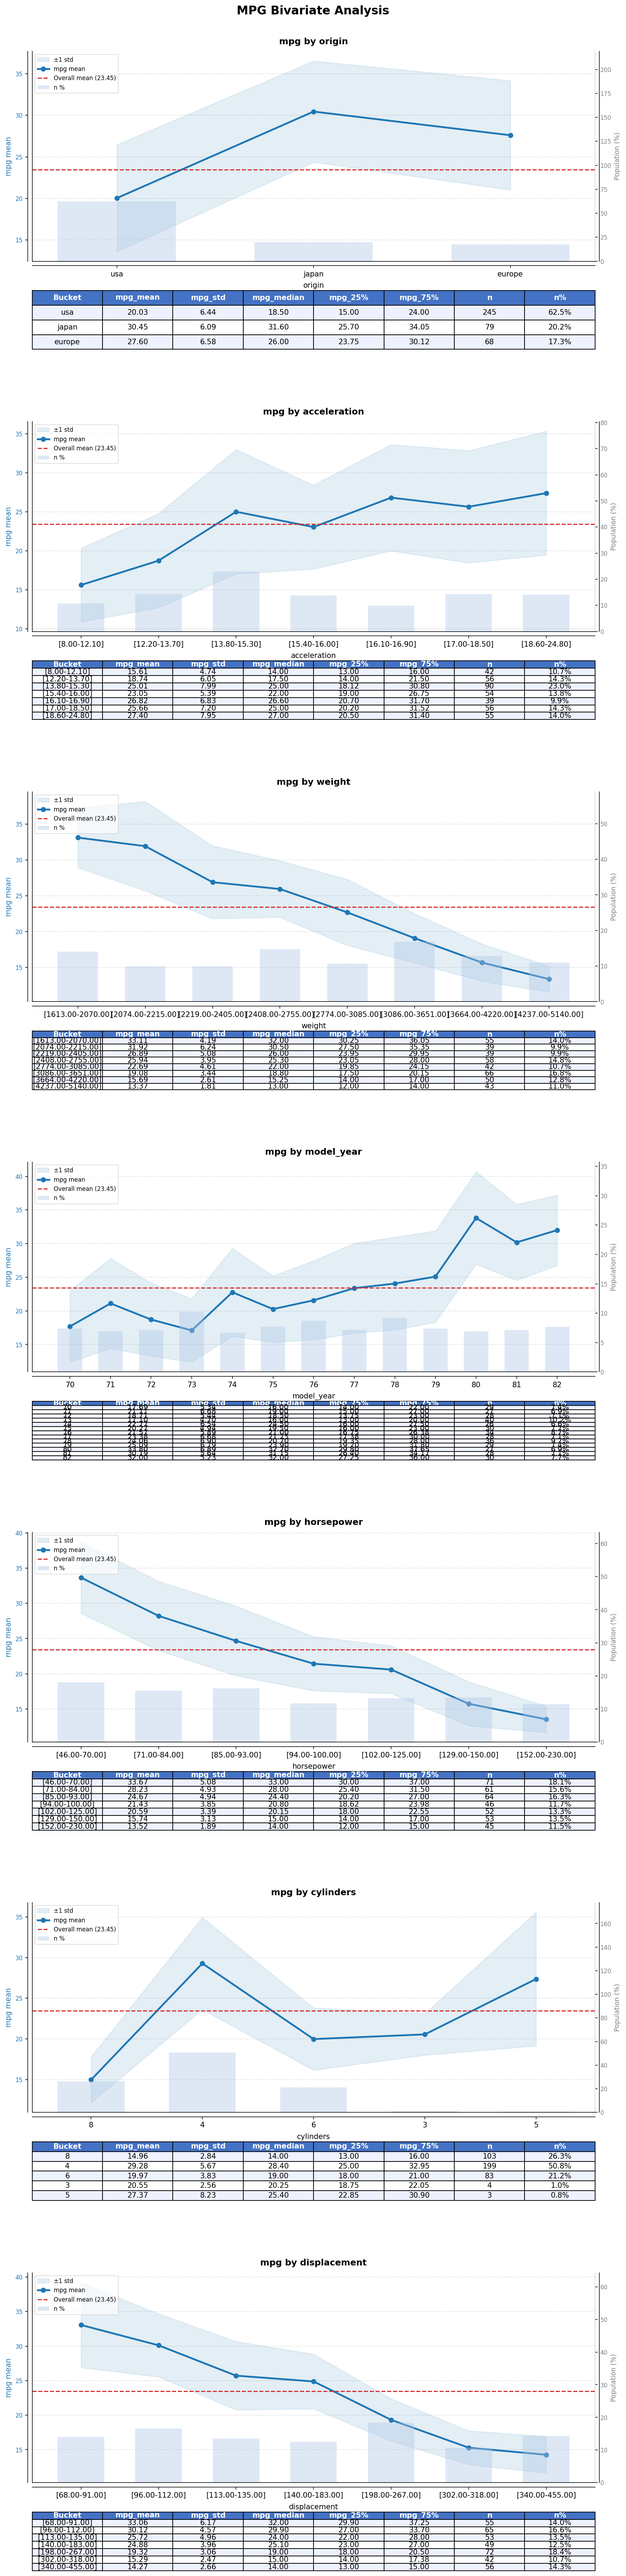
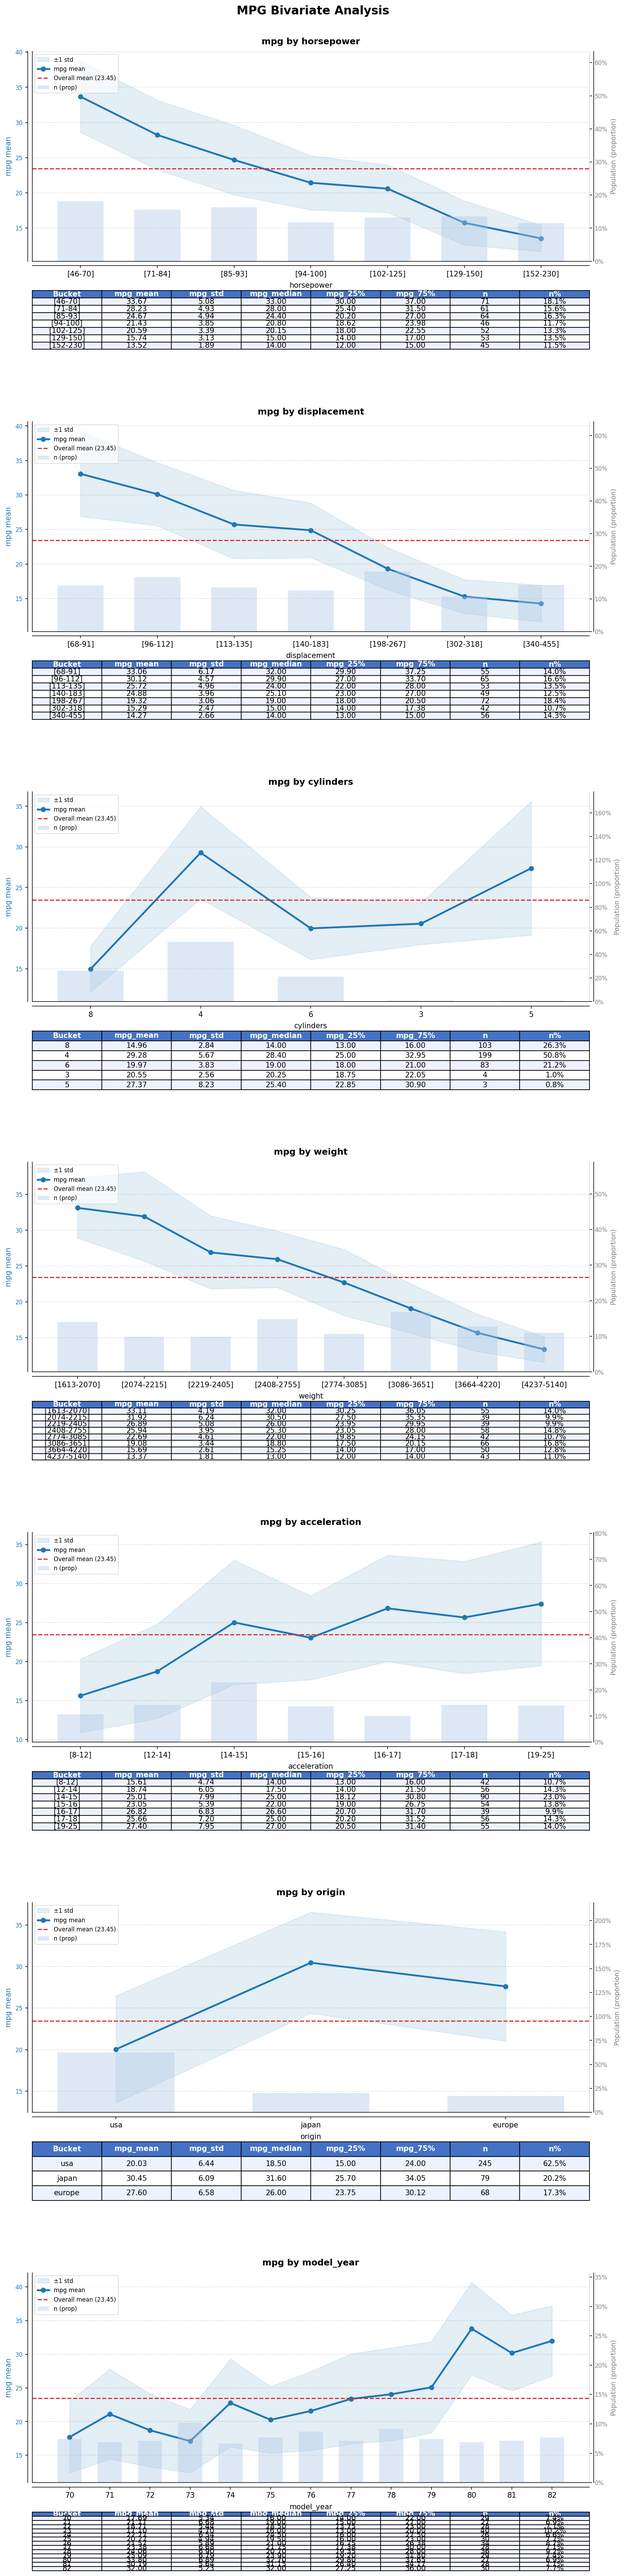
add max_discr slider + varname dropdown to interactive panel

diff --git a/src/bivariate_functions.py b/src/bivariate_functions.py
@@ -316,6 +316,286 @@ def plot_data_by_varname(ax, df, var_name, Y):
     ax.add_table(table)
 
 
+def plot_interactive_panel(df, Y):
+    """Variable-selector panel with max_discr filter.
+
+    Two controls:
+    - ``min max_discr`` slider: hides variables whose max_discr is below the
+      chosen threshold, so you can focus on the most discriminating ones.
+    - ``Variable`` dropdown: lists surviving variables sorted by max_discr
+      (highest first); each option shows the variable name and its score.
+
+    Renders an enhanced Plotly chart for the selected variable.
+    Call from a Jupyter notebook cell.
+    """
+    import ipywidgets as widgets
+    from IPython.display import display, clear_output
+
+    # max_discr is the same for every row of a variable – grab one per var
+    var_discr = (
+        df.groupby('varname')['max_discr']
+        .first()
+        .sort_values(ascending=False)
+    )
+    discr_min = float(round(var_discr.min(), 4))
+    discr_max = float(round(var_discr.max(), 4))
+    step = float(round((discr_max - discr_min) / 100, 4)) if discr_max > discr_min else 0.001
+
+    def _var_options(min_discr):
+        """Return (label, varname) option pairs for vars >= min_discr."""
+        filtered = var_discr[var_discr >= min_discr]
+        if filtered.empty:
+            filtered = var_discr.iloc[:1]
+        return [(f"{v}  (discr={s:.3f})", v) for v, s in filtered.items()]
+
+    # ── widgets ──────────────────────────────────────────────────────────
+    slider = widgets.FloatSlider(
+        value=discr_min,
+        min=discr_min,
+        max=discr_max,
+        step=step,
+        description='',
+        continuous_update=False,
+        readout=True,
+        readout_format='.3f',
+        layout=widgets.Layout(width='340px'),
+        style={'handle_color': '#2563EB'},
+    )
+    initial_options = _var_options(discr_min)
+    dropdown = widgets.Dropdown(
+        options=initial_options,
+        value=initial_options[0][1],
+        description='',
+        layout=widgets.Layout(width='320px'),
+    )
+
+    label_slider = widgets.HTML(
+        "<b style='font-size:12px;color:#555'>Min max_discr&nbsp;</b>",
+        layout=widgets.Layout(margin='6px 0 0 0'),
+    )
+    label_var = widgets.HTML(
+        "<b style='font-size:12px;color:#555'>Variable&nbsp;&nbsp;&nbsp;&nbsp;&nbsp;&nbsp;&nbsp;&nbsp;</b>",
+        layout=widgets.Layout(margin='6px 0 0 0'),
+    )
+    output = widgets.Output()
+
+    def render(var_name):
+        import plotly.io as pio
+        from IPython.display import HTML as _HTML
+        with output:
+            clear_output(wait=True)
+            fig = _plot_varname_enhanced(df, var_name, Y)
+            html = pio.to_html(fig, include_plotlyjs='cdn', full_html=False)
+            display(_HTML(html))
+
+    def on_slider_change(change):
+        if change['name'] == 'value':
+            new_options = _var_options(change['new'])
+            # Update dropdown without triggering redundant renders
+            dropdown.unobserve(on_dropdown_change, names='value')
+            dropdown.options = new_options
+            dropdown.value = new_options[0][1]
+            dropdown.observe(on_dropdown_change, names='value')
+            render(new_options[0][1])
+
+    def on_dropdown_change(change):
+        if change['name'] == 'value' and change['new']:
+            render(change['new'])
+
+    slider.observe(on_slider_change, names='value')
+    dropdown.observe(on_dropdown_change, names='value')
+
+    header = widgets.VBox(
+        [
+            widgets.HBox([label_slider, slider]),
+            widgets.HBox([label_var, dropdown]),
+        ],
+        layout=widgets.Layout(
+            padding='10px 16px',
+            border='1px solid #e0e0e0',
+            border_radius='8px',
+            background_color='#fafafa',
+            margin='0 0 10px 0',
+        ),
+    )
+    display(widgets.VBox([header, output]))
+    render(initial_options[0][1])
+
+
+def _plot_varname_enhanced(df, var_name, Y):
+    """Enhanced single-variable Plotly chart with:
+    - Mean line + ±1 std band
+    - IQR band (25–75 %)
+    - Median markers
+    - n proportion bars on secondary axis
+    - Polished summary table
+    """
+    filtered_df = df[df['varname'] == var_name].copy()
+    if filtered_df.empty:
+        return go.Figure()
+
+    filtered_df['x_string'] = filtered_df['x_string'].fillna('Missing').astype(str)
+    gen_y_mean = filtered_df[f'gen_{Y}_mean'].iloc[0]
+    x_labels   = filtered_df['x_string'].tolist()
+    y_mean     = filtered_df[f'{Y}_mean'].values
+    y_std      = filtered_df[f'{Y}_std'].values
+    y_med      = filtered_df[f'{Y}_median'].values
+    y_q25      = filtered_df[f'{Y}_25%'].values
+    y_q75      = filtered_df[f'{Y}_75%'].values
+    n_prop     = (filtered_df['n_percentage'] / 100).values
+
+    # ── palette ──────────────────────────────────────────────────────────
+    C_MEAN  = '#2563EB'   # blue
+    C_MED   = '#7C3AED'   # purple
+    C_BAND  = 'rgba(37,99,235,0.10)'
+    C_IQR   = 'rgba(124,58,237,0.10)'
+    C_REF   = '#DC2626'   # red
+    C_BAR   = 'rgba(148,163,184,0.45)'  # slate
+
+    fig = make_subplots(
+        rows=2, cols=1,
+        row_heights=[0.68, 0.32],
+        vertical_spacing=0.08,
+        specs=[[{"secondary_y": True}], [{"type": "table"}]],
+    )
+
+    # ── ±1 std band ───────────────────────────────────────────────────────
+    fig.add_trace(go.Scatter(
+        x=x_labels + x_labels[::-1],
+        y=list(y_mean + y_std) + list((y_mean - y_std)[::-1]),
+        fill='toself', fillcolor=C_BAND,
+        line=dict(color='rgba(0,0,0,0)'),
+        hoverinfo='skip', showlegend=True, name='±1 std',
+    ), row=1, col=1, secondary_y=False)
+
+    # ── IQR band (25–75 %) ────────────────────────────────────────────────
+    fig.add_trace(go.Scatter(
+        x=x_labels + x_labels[::-1],
+        y=list(y_q75) + list(y_q25[::-1]),
+        fill='toself', fillcolor=C_IQR,
+        line=dict(color='rgba(0,0,0,0)'),
+        hoverinfo='skip', showlegend=True, name='IQR (25–75%)',
+    ), row=1, col=1, secondary_y=False)
+
+    # ── mean line ─────────────────────────────────────────────────────────
+    fig.add_trace(go.Scatter(
+        x=x_labels, y=y_mean,
+        mode='lines+markers',
+        line=dict(color=C_MEAN, width=2.5),
+        marker=dict(size=8, color=C_MEAN, line=dict(color='white', width=1.5)),
+        name=f'{Y} mean',
+        hovertemplate='<b>%{x}</b><br>mean: %{y:.2f}<extra></extra>',
+    ), row=1, col=1, secondary_y=False)
+
+    # ── median markers ────────────────────────────────────────────────────
+    fig.add_trace(go.Scatter(
+        x=x_labels, y=y_med,
+        mode='markers',
+        marker=dict(size=9, color=C_MED, symbol='diamond',
+                    line=dict(color='white', width=1.5)),
+        name=f'{Y} median',
+        hovertemplate='<b>%{x}</b><br>median: %{y:.2f}<extra></extra>',
+    ), row=1, col=1, secondary_y=False)
+
+    # ── overall mean reference line ───────────────────────────────────────
+    fig.add_hline(
+        y=gen_y_mean,
+        line=dict(color=C_REF, width=1.5, dash='dot'),
+        annotation_text=f'Overall mean  {gen_y_mean:.2f}',
+        annotation_position='top right',
+        annotation_font=dict(color=C_REF, size=11),
+        row=1, col=1,
+    )
+
+    # ── n proportion bars (secondary y) ───────────────────────────────────
+    fig.add_trace(go.Bar(
+        x=x_labels, y=n_prop,
+        name='Population',
+        marker=dict(color=C_BAR, line=dict(color='rgba(0,0,0,0)')),
+        hovertemplate='<b>%{x}</b><br>%{customdata:.1%}<extra></extra>',
+        customdata=n_prop,
+        yaxis='y2',
+    ), row=1, col=1, secondary_y=True)
+
+    # ── summary table ─────────────────────────────────────────────────────
+    fmt = lambda v: f"{v:.2f}" if isinstance(v, (float, np.floating)) else str(v)
+    col_labels = ['Bucket', f'{Y} mean', f'{Y} std', f'{Y} median',
+                  'Q25', 'Q75', 'n', 'Pop %']
+    cell_values = [
+        filtered_df['x_string'].tolist(),
+        [fmt(v) for v in filtered_df[f'{Y}_mean']],
+        [fmt(v) for v in filtered_df[f'{Y}_std']],
+        [fmt(v) for v in filtered_df[f'{Y}_median']],
+        [fmt(v) for v in filtered_df[f'{Y}_25%']],
+        [fmt(v) for v in filtered_df[f'{Y}_75%']],
+        [str(int(v)) for v in filtered_df['n']],
+        [f"{v:.1%}" for v in n_prop],
+    ]
+    n_rows = len(filtered_df)
+    row_fill = ['#F1F5F9' if i % 2 == 0 else 'white' for i in range(n_rows)]
+
+    fig.add_trace(go.Table(
+        header=dict(
+            values=[f'<b>{c}</b>' for c in col_labels],
+            fill_color='#1E3A5F',
+            font=dict(color='white', size=11, family='Arial'),
+            align='center', height=30,
+            line=dict(color='#1E3A5F'),
+        ),
+        cells=dict(
+            values=cell_values,
+            fill_color=[row_fill] * len(col_labels),
+            align='center',
+            font=dict(size=10.5, family='Arial'),
+            height=26,
+            line=dict(color='#E2E8F0'),
+        ),
+    ), row=2, col=1)
+
+    # ── axes & layout ─────────────────────────────────────────────────────
+    fig.update_yaxes(
+        title_text=f'{Y}',
+        title_font=dict(color=C_MEAN, size=12),
+        tickfont=dict(color=C_MEAN, size=11),
+        gridcolor='rgba(0,0,0,0.06)',
+        zeroline=False,
+        row=1, col=1, secondary_y=False,
+    )
+    fig.update_yaxes(
+        title_text='Population',
+        title_font=dict(color='#94A3B8', size=11),
+        tickfont=dict(color='#94A3B8', size=10),
+        tickformat='.0%',
+        showgrid=False,
+        range=[0, n_prop.max() * 3.5],
+        row=1, col=1, secondary_y=True,
+    )
+    fig.update_xaxes(tickangle=-35, tickfont=dict(size=11), row=1, col=1)
+    fig.update_layout(
+        title=dict(
+            text=f'<b>{Y}</b>  ·  by  <b>{var_name}</b>',
+            font=dict(size=16, color='#1E293B', family='Arial'),
+            x=0.02, y=0.98,
+        ),
+        plot_bgcolor='white',
+        paper_bgcolor='white',
+        legend=dict(
+            orientation='h', yanchor='bottom', y=1.01, xanchor='right', x=1,
+            font=dict(size=11), bgcolor='rgba(255,255,255,0.8)',
+            bordercolor='#E2E8F0', borderwidth=1,
+        ),
+        margin=dict(t=70, b=10, l=60, r=70),
+        bargap=0.25,
+        hovermode='x unified',
+        hoverlabel=dict(bgcolor='white', font_size=12, bordercolor='#CBD5E1'),
+        height=700,
+    )
+    fig.update_xaxes(showline=True, linecolor='#E2E8F0', row=1, col=1)
+    fig.update_yaxes(showline=False, row=1, col=1, secondary_y=False)
+
+    return fig
+
+
 def plot_data_by_varname_plotly(df, var_name, Y):
     """Interactive plotly version of plot_data_by_varname.
 
@@ -340,7 +620,7 @@ def plot_data_by_varname_plotly(df, var_name, Y):
         row_heights=[0.72, 0.28],
         vertical_spacing=0.06,
         specs=[[{"secondary_y": True}],
-               [{"secondary_y": False}]],
+               [{"type": "table"}]],
     )
 
     # ── ±1 std band ───────────────────────────────────────────────────────
@@ -445,7 +725,7 @@ def plot_data_by_varname_plotly(df, var_name, Y):
         title_font=dict(color='grey'),
         tickfont=dict(color='grey'),
         showgrid=False,
-        range=[0, filtered_df['n_percentage'].max() * 3.5],
+        range=[0, 100],
         row=1, col=1, secondary_y=True,
     )
     fig.update_xaxes(tickangle=-40, row=1, col=1)
